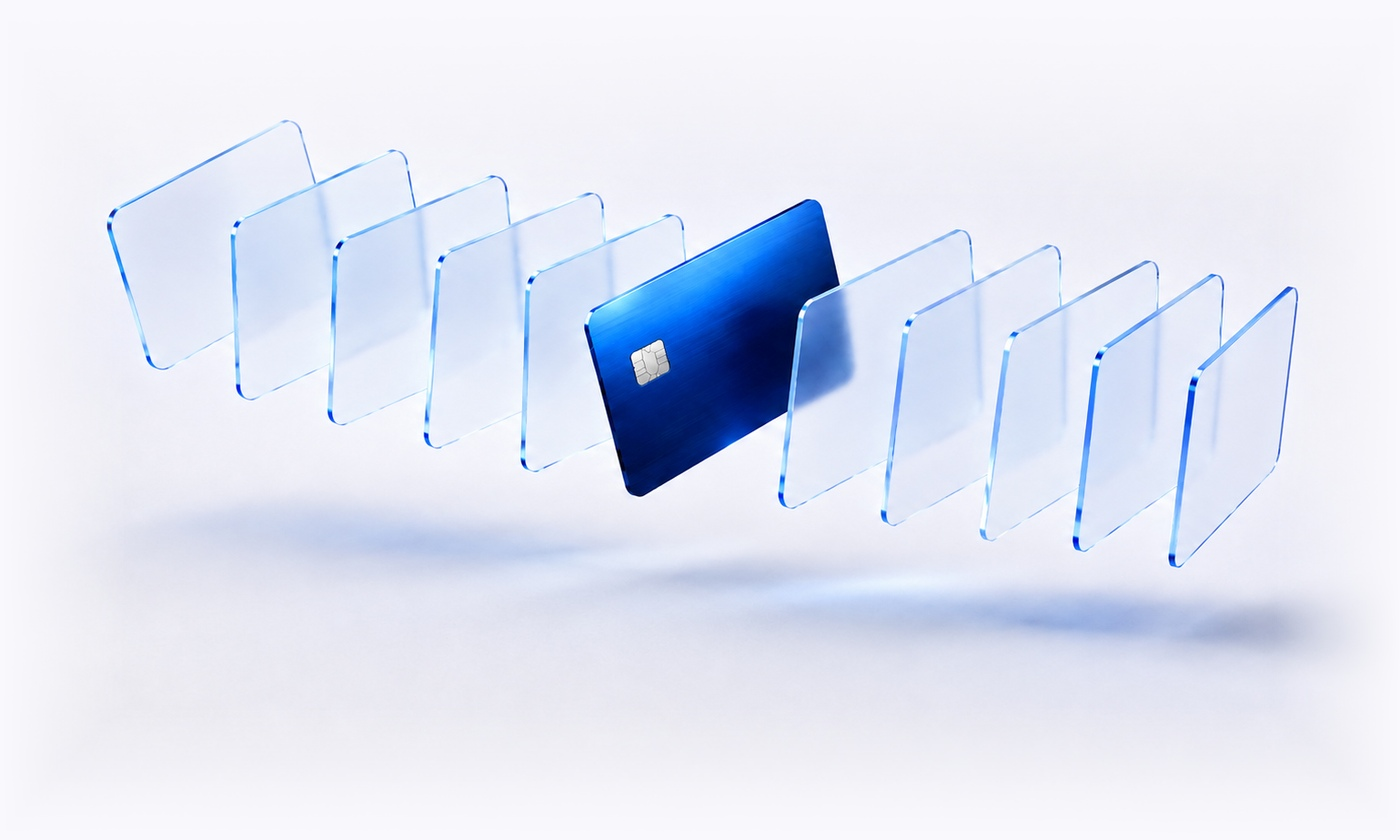
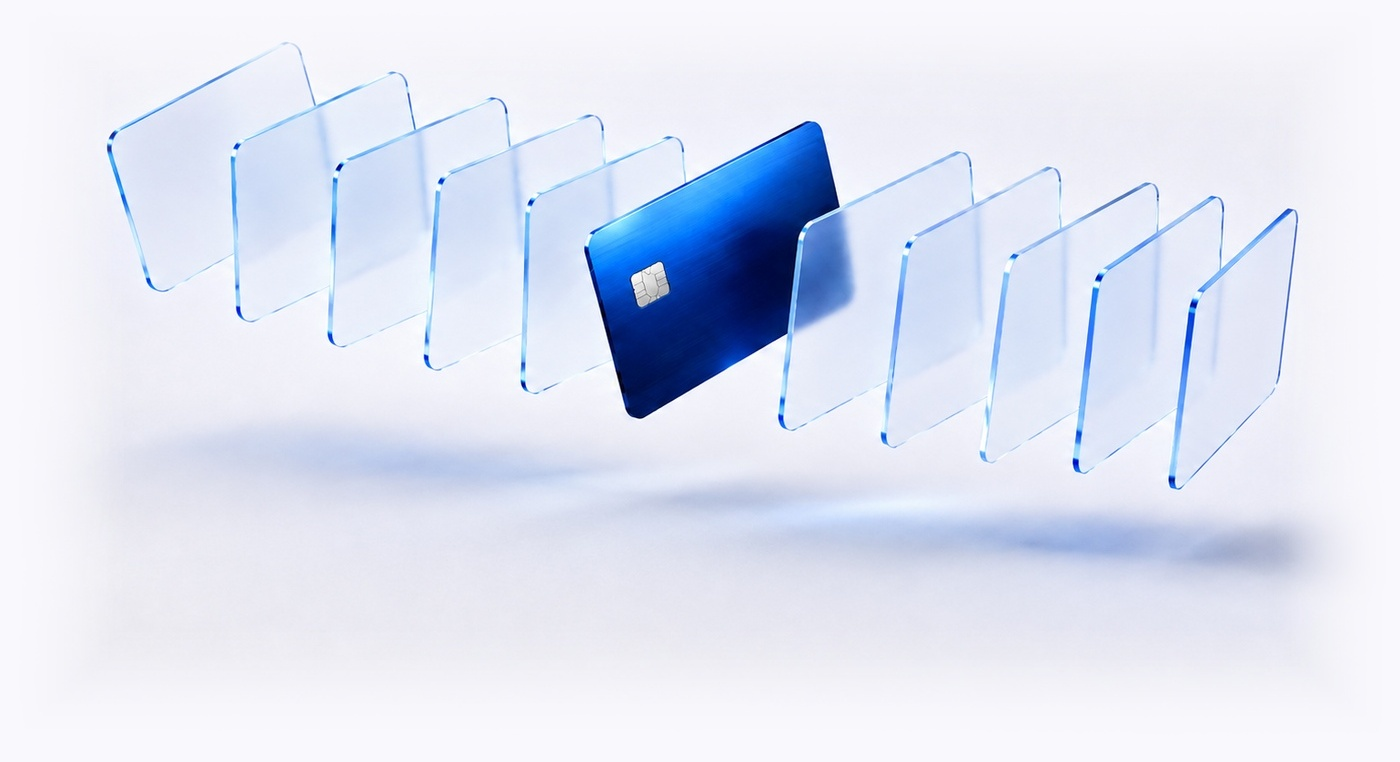
CTA 이미지 위 여백 잘라내고 버튼과 밀착

diff --git a/index.html b/index.html
@@ -401,7 +401,7 @@
   @media(max-width:767px){
     #endcta{min-height:0; padding-top:96px; padding-bottom:20px;
       background-color:#F9F8FD; background-image:none;}
-    #endcta .cfig{display:block; position:relative; z-index:0; width:270%; max-width:none; margin:14px -85% 0;}
+    #endcta .cfig{display:block; position:relative; z-index:0; width:270%; max-width:none; margin:-8px -85% 0;}
     #endcta:before{background:linear-gradient(180deg, #F7F8FA 0%, rgba(249,248,253,0) 100%);}
   }
   #endcta .eyebrow{color:var(--primary-600);}
@@ -1086,7 +1086,7 @@
         <a class="btn btn-primary" href="app.html"><img class="btn-logo" src="img/logo3-white.png" alt="">바로 송금하기</a>
         <a class="btn btn-ghostw" href="guide.html">어떻게 이용하나요?</a>
       </div>
-      <img class="cfig" src="img/cta-bg-m.jpg?v=4" alt="" aria-hidden="true">
+      <img class="cfig" src="img/cta-bg-m.jpg?v=5" alt="" aria-hidden="true">
       <div style="display:none">
       </div>
     </div>
